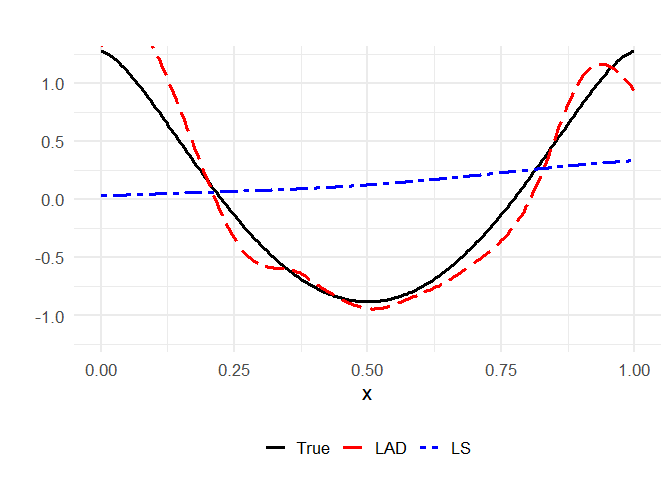
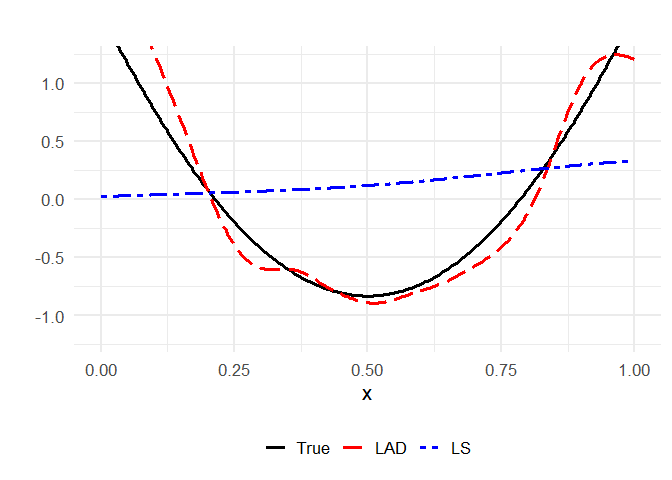
Updates

diff --git a/README.md b/README.md
@@ -9,7 +9,7 @@ interface of the reproducing kernel Hilbert space estimators of
 Kalogridis (2026).
 
 The computation is done with **Iteratively Reweighted Least-Squares**
-and the penalty parameter is selected with **robust Generalized Cross
+and the penalty parameter is selected with **robust Ordinary Cross
 Validation**.
 
 Here are detailed installation instructions:
@@ -55,19 +55,19 @@ pred <- predict_rkhs(fit, X, Xnew)
 where $X$ is an $n \times d$ matrix of predictors and
 $y \in \mathbb{R}^n$. `loss` specifies the loss function to be used -
 quantile or ls. `tau` is the quantile to be estimated - only useful for
-the quantile loss. Currently supported kernels are (i) matern (ii)
-Gaussian and (iii) tensor (product kernel). All kernels can be used for
-both one-dimensional and multi-dimensional predictors, see the paper for
-detailed explanations.
+the quantile loss. Currently supported kernels are (i) Mat'ern (ii)
+Gaussian and (iii) tensor Mat'ern (product kernel). All kernels can be
+used for both one-dimensional and multi-dimensional predictors, see the
+paper for detailed explanations.
 
 ## Example 1: One-dimensional data
 
 ``` r
 set.seed(11)
 
-n    <- 300 # 
+n    <- 300 
 beta <- 0.75 # one of c(0.5, 0.75, 1.0) 
-p <- 1.2
+p <- 0.6
 
 K <- 50
 k <- 1:K
@@ -177,7 +177,7 @@ Let us now consider a more complex example with two dimensional
 predictors $\mathbf{x}_1, \ldots, \mathbf{x}_n \subset [0,1]^2$. The
 data are generated according to
 
-$$y_i = \sum_{j=1}^{25} \sum_{k=1}^{25} (j k)^{-(2 \beta + 1.2)} \sin(2 \pi j  x_{i1}) \sin(2 \pi k x_{i2}) + \epsilon_i, \quad (i=1, \ldots, n),$$
+$$y_i = \sum_{j=1}^{25} \sum_{k=1}^{25} (j k)^{-(2 \beta + 0.6)} \sin(2 \pi j  x_{i1}) \sin(2 \pi k x_{i2}) + \epsilon_i, \quad (i=1, \ldots, n),$$
 for $\beta = 0.75$ and $\epsilon_i$ iid Gaussian or $t_2$.
 
 We compare the true regression surface with the least-squares (LS) and
@@ -199,7 +199,7 @@ f0 <- function(X) {
   out <- 0
   for (j in 1:K) {
     for (k in 1:K) {
-      coef <- (j * k)^(-(2 * beta + 1.2))
+      coef <- (j * k)^(-(2 * beta + 0.6))
       out <- out + coef * sin(2*pi*j*X[,1]) * sin(2*pi*k*X[,2])
     }
   }
@@ -228,7 +228,6 @@ df <- rbind(
 )
 df$method <- factor(df$method,
                     levels = c("True", "LS", "LAD"))
-
 
 # Plot
 z_range <- range(f_true)
